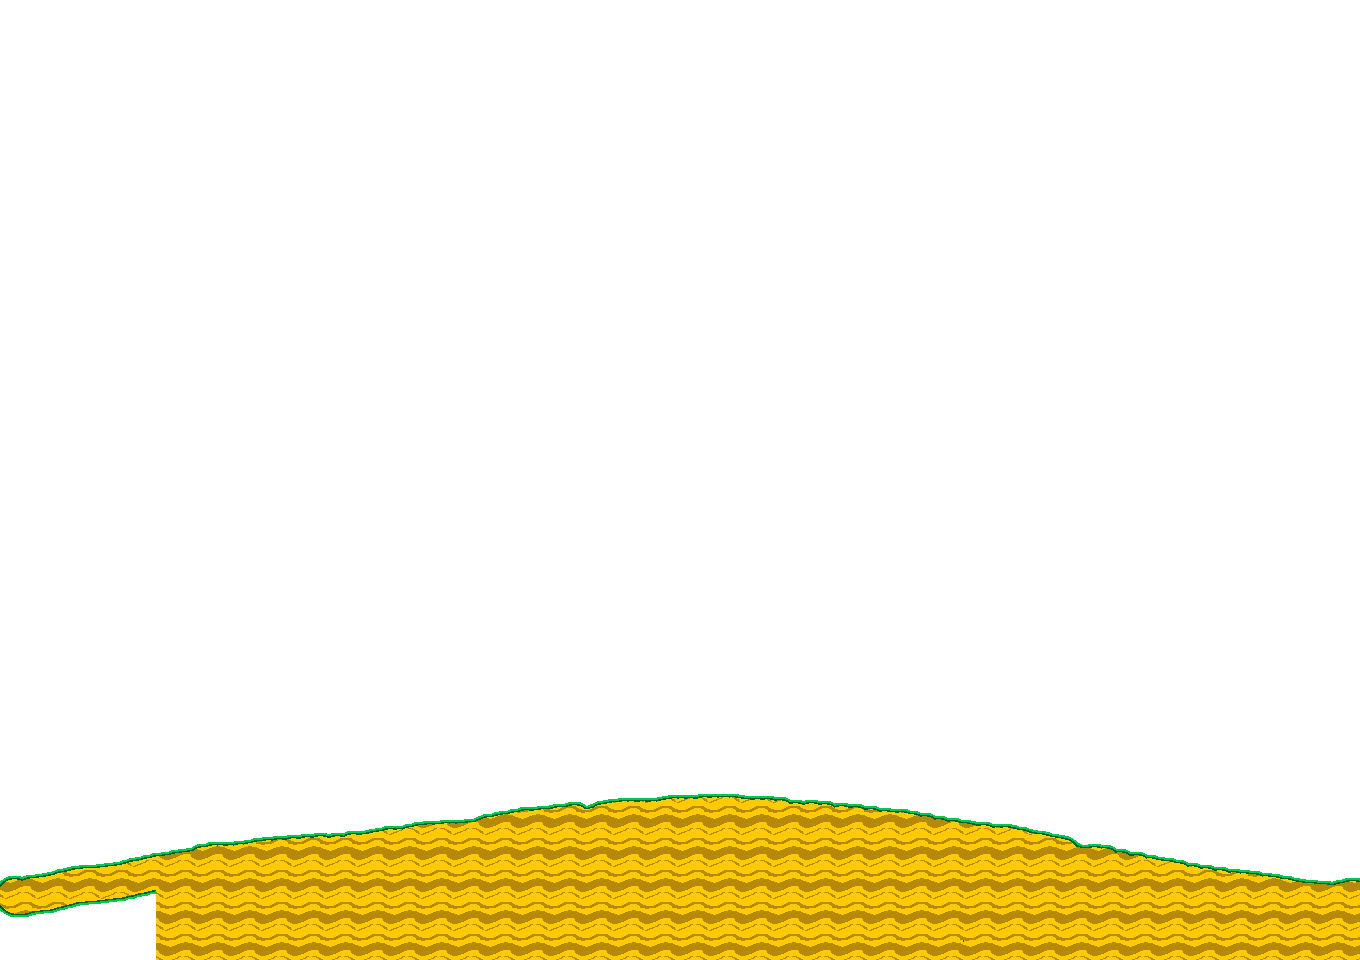
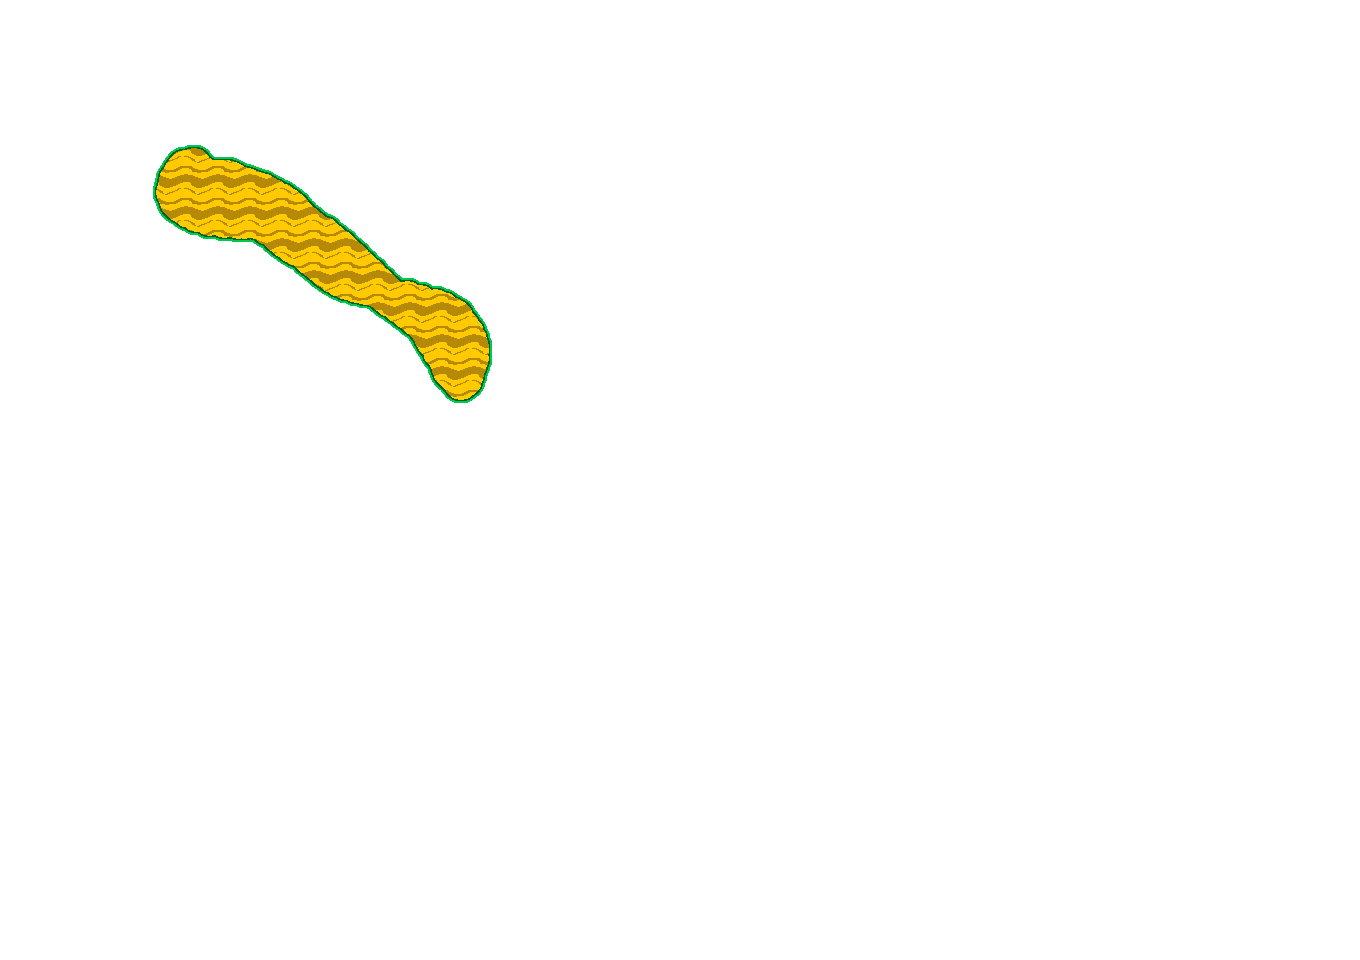
working on pwt level editor

Changed region(s): [[0.0, 0.8125, 1.0, 1.0], [0.0926, 0.1562, 0.3706, 0.4375]]

diff --git a/src/paintable_surface.h b/src/paintable_surface.h
@@ -8,13 +8,15 @@
 #include <graphics.h>
 #include <ufo_engine.h>
 #include <memory>
+#include <cmath>
 #include <console.h>
 #define STB_IMAGE_IMPLEMENTATION
 #define STB_IMAGE_WRITE_IMPLEMENTATION
 #include "../external/stb_image_write.h"
 #include "pingus_level.h"
+#include <level_sprite_reference.h>
+#include "pingus_world_tour_editor.h"
 
-/// @spawn;
 class PaintableSurface : public Actor{
 public:
     Colour CRUST = Colour(250,250,250);
@@ -30,21 +32,31 @@ public:
     olc::Decal* visual_surface;
     SpriteReference* visual_surface_ref = nullptr;
 
-    float brush_radius = 20.0f;
-
     PingusLevel* level = nullptr;
+    std::string path = "";
+    std::string visual_suface_name = "";
+    std::string layer_separation_surface_name = "";
 
-    PaintableSurface(Vector2f _) : Actor(Vector2f(0.0f,0.0f)){
+    PingusWorldTourEditor* editor = nullptr;
+
+    PaintableSurface(PingusWorldTourEditor* _editor, std::string _visual_surface_name, std::string _path) :
+    Actor(Vector2f(0.0f,0.0f)),
+    editor{_editor},
+    visual_suface_name{_visual_surface_name},
+    layer_separation_surface_name{_visual_surface_name+"_layer_separation"},
+    path{_path}{
         
     }
 
     void OnStart(Level* _level){
 
+        level = dynamic_cast<PingusLevel*>(_level);
+
         //Instead of creating SpriteReference, create an actual PingusWorldTour LevelSpriteReference layer. Grab reference to that olcDecal
-        AssetManager::Get().sprites["layer_separation_surface"] = std::make_unique<olc::Sprite>(_level->level_size.x, _level->level_size.y);
-        AssetManager::Get().decals["layer_separation_surface"] = std::make_unique<olc::Decal>(AssetManager::Get().GetSprite("layer_separation_surface"));
-        layer_separation_surface = AssetManager::Get().GetDecal("layer_separation_surface");
-        layer_separation_surface_ref = AddChild<SpriteReference>("layer_separation_surface",
+        level->asset_manager.sprites[layer_separation_surface_name] = std::make_unique<olc::Sprite>(_level->level_size.x, _level->level_size.y);
+        level->asset_manager.decals[layer_separation_surface_name] = std::make_unique<olc::Decal>(level->asset_manager.GetSprite(layer_separation_surface_name));
+        layer_separation_surface = level->asset_manager.GetDecal(layer_separation_surface_name);
+        layer_separation_surface_ref = AddChild<LevelSpriteReference>(layer_separation_surface_name,
             Vector2f(0.0f,0.0f),
             Vector2f(0.0f,0.0f),
             Vector2f(_level->level_size.x, _level->level_size.y),
@@ -58,10 +70,10 @@ public:
             }
         }
 
-        AssetManager::Get().sprites["visual_surface"] = std::make_unique<olc::Sprite>(_level->level_size.x, _level->level_size.y);
-        AssetManager::Get().decals["visual_surface"] = std::make_unique<olc::Decal>(AssetManager::Get().GetSprite("visual_surface"));
-        visual_surface = AssetManager::Get().GetDecal("visual_surface");
-        visual_surface_ref = AddChild<SpriteReference>("visual_surface",
+        level->asset_manager.sprites[visual_suface_name] = std::make_unique<olc::Sprite>(_level->level_size.x, _level->level_size.y);
+        level->asset_manager.decals[visual_suface_name] = std::make_unique<olc::Decal>(level->asset_manager.GetSprite(visual_suface_name));
+        visual_surface = level->asset_manager.GetDecal(visual_suface_name);
+        visual_surface_ref = AddChild<LevelSpriteReference>(visual_suface_name,
             Vector2f(0.0f,0.0f),
             Vector2f(0.0f,0.0f),
             Vector2f(_level->level_size.x, _level->level_size.y),
@@ -74,8 +86,6 @@ public:
                 visual_surface->sprite->SetPixel(xx,yy,Colour(0,0,0,0));
             }
         }
-
-        level = dynamic_cast<PingusLevel*>(_level);
 
         visual_surface_ref->visible = false;
 
@@ -132,10 +142,6 @@ public:
         }
 
         Vector2f world_mouse_position = level->GetActiveCamera()->TransformScreenToWorld(Mouse::Get().GetPosition());
-
-        int scroll_direction = Mouse::Get().GetScrollDirection();
-        brush_radius += scroll_direction /** Engine::Get().GetDeltaTime()*/;
-        if(brush_radius < 1.0f) brush_radius = 1.0f;
 
         if(SingleKeyboard::Get().GetKey(olc::F).is_held && Mouse::Get().GetLeftButton().is_pressed){
             Vector2f marching_position = world_mouse_position;
@@ -199,17 +205,17 @@ public:
 
         if(Mouse::Get().GetLeftButton().is_held && !SingleKeyboard::Get().GetKey(olc::F).is_held){
             if(!SingleKeyboard::Get().GetKey(olc::E).is_held){
-                for(int yy = world_mouse_position.y - brush_radius; yy < world_mouse_position.y + brush_radius; yy++){
-                    for(int xx = world_mouse_position.x - brush_radius; xx < world_mouse_position.x + brush_radius; xx++){
+                for(int yy = world_mouse_position.y - editor->brush_radius; yy < world_mouse_position.y + editor->brush_radius; yy++){
+                    for(int xx = world_mouse_position.x - editor->brush_radius; xx < world_mouse_position.x + editor->brush_radius; xx++){
                         float dist = ufoMaths::Distance2(Vector2f(xx,yy),world_mouse_position);
-                        if(dist < brush_radius){
+                        if(dist < editor->brush_radius){
                             if(layer_separation_surface->sprite->GetPixel(xx,yy) != MANTLE && layer_separation_surface->sprite->GetPixel(xx,yy) != CRUST_DARK) layer_separation_surface->sprite->SetPixel(xx,yy,CRUST);
 
-                            if(dist < brush_radius - 2.0f && layer_separation_surface->sprite->GetPixel(xx,yy) != MANTLE){
+                            if(dist < editor->brush_radius - 2.0f && layer_separation_surface->sprite->GetPixel(xx,yy) != MANTLE){
                                 layer_separation_surface->sprite->SetPixel(xx,yy,CRUST_DARK);
                             }
 
-                            if(dist < brush_radius-3.8f){
+                            if(dist < editor->brush_radius-3.8f){
                                 layer_separation_surface->sprite->SetPixel(xx,yy,MANTLE);
                             }
 
@@ -220,25 +226,25 @@ public:
             }
             else{
 
-                for(int yy = world_mouse_position.y - brush_radius-5.0f; yy < world_mouse_position.y + brush_radius+5.0f; yy++){
-                    for(int xx = world_mouse_position.x - brush_radius-5.0f; xx < world_mouse_position.x + brush_radius+5.0f; xx++){
+                for(int yy = world_mouse_position.y - editor->brush_radius-5.0f; yy < world_mouse_position.y + editor->brush_radius+5.0f; yy++){
+                    for(int xx = world_mouse_position.x - editor->brush_radius-5.0f; xx < world_mouse_position.x + editor->brush_radius+5.0f; xx++){
                         float dist = ufoMaths::Distance2(Vector2f(xx,yy),world_mouse_position);
                         
                         if(layer_separation_surface->sprite->GetPixel(xx,yy) == Colour(0,0,0,0)) continue;
 
-                        if(dist < brush_radius+5.0f && layer_separation_surface->sprite->GetPixel(xx,yy) != CRUST && layer_separation_surface->sprite->GetPixel(xx,yy) != CRUST_DARK){
+                        if(dist < editor->brush_radius+5.0f && layer_separation_surface->sprite->GetPixel(xx,yy) != CRUST && layer_separation_surface->sprite->GetPixel(xx,yy) != CRUST_DARK){
                             layer_separation_surface->sprite->SetPixel(xx,yy,MANTLE);
                         }
 
-                        if(dist < brush_radius+3.0f && layer_separation_surface->sprite->GetPixel(xx,yy) != CRUST){
+                        if(dist < editor->brush_radius+3.0f && layer_separation_surface->sprite->GetPixel(xx,yy) != CRUST){
                             layer_separation_surface->sprite->SetPixel(xx,yy,CRUST_DARK);
                         }
 
-                        if(dist < brush_radius+2.0f){
+                        if(dist < editor->brush_radius+2.0f){
                             layer_separation_surface->sprite->SetPixel(xx,yy,CRUST);
                         }
 
-                        if(dist < brush_radius){
+                        if(dist < editor->brush_radius){
                             layer_separation_surface->sprite->SetPixel(xx,yy,Colour(0,0,0,0));
                         }
 
@@ -249,8 +255,8 @@ public:
             
             }
 
-            for(int yy = world_mouse_position.y - brush_radius*2; yy < world_mouse_position.y + brush_radius*2; yy++){
-                for(int xx = world_mouse_position.x - brush_radius*2; xx < world_mouse_position.x + brush_radius*2; xx++){
+            for(int yy = world_mouse_position.y - editor->brush_radius*2; yy < world_mouse_position.y + editor->brush_radius*2; yy++){
+                for(int xx = world_mouse_position.x - editor->brush_radius*2; xx < world_mouse_position.x + editor->brush_radius*2; xx++){
                     float dist = ufoMaths::Distance2(Vector2f(xx,yy),world_mouse_position);
                     
                     if(layer_separation_surface->sprite->GetPixel(xx,yy) == CRUST){
@@ -273,19 +279,6 @@ public:
 
         layer_separation_surface->Update();
         visual_surface->Update();
-    }
-
-    void OnWidgetDraw(){
-
-        //Move this to PingusWorldTour editor
-        Vector2f mouse_position = Mouse::Get().GetPosition();
-
-        float one_degree = 2.0f*ufoMaths::PI/360.0f;
-
-        for(int a = 0; a < 360; a++){
-            Graphics::Get().DrawLine(mouse_position + Vector2f(std::cos(a*one_degree),std::sin(a*one_degree))*brush_radius*level->GetActiveCamera()->scale, mouse_position + Vector2f(std::cos((a+1)*one_degree),std::sin((a+1)*one_degree))*brush_radius*level->GetActiveCamera()->scale,Graphics::WHITE);
-        }
-
     }
 
 };

diff --git a/src/pingus_world_tour_editor.cpp b/src/pingus_world_tour_editor.cpp
@@ -1,0 +1,52 @@
+#include <widget.h>
+#include <mouse.h>
+#include <graphics.h>
+#include <ufo_maths.h>
+#include <button.h>
+#include <level.h>
+#include <wrap_menu.h>
+#include "pingus_level.h"
+#include "pingus_world_tour_editor.h"
+#include "paintable_surface.h"
+
+PingusWorldTourEditor::PingusWorldTourEditor(Vector2f _) : Widget(Vector2f(0.0f,0.0f),Engine::Get().pixel_game_engine.GetWindowSizeInPixles()){}
+
+void PingusWorldTourEditor::OnLevelEnter(Level* _level){
+    level = dynamic_cast<PingusLevel*>(_level);
+
+    b_save = AddChild<Button>(Vector2f(0.0f,0.0f),Vector2f(32.0f,0.0f),"Save");
+    b_save->adjust_height_after_text_rows = true;
+    b_load = AddChild<Button>(Vector2f(32.0f,0.0f),Vector2f(32.0f,0.0f),"Load");
+    b_load->adjust_height_after_text_rows = true;
+    b_import_layer = AddChild<Button>(Vector2f(32.0f*2,0.0f),Vector2f(56.0f,0.0f),"Import Layer");
+    b_import_layer->adjust_height_after_text_rows = true;
+    m_layers = AddChild<WrapMenu>(Vector2f(GetRectangle().size.x-200.0f,0.0f),Vector2f(200.0f,200.0f));
+    AddLayer("solid", "solid.png");
+    AddLayer("mg", "mg.png");
+    
+    level->is_menu = true;
+}
+
+void PingusWorldTourEditor::AddLayer(std::string _name, std::string _path){
+    level->NewActor<PaintableSurface>(this,_name,_path);
+    m_layers->AddChild<Button>(Vector2f(0.0f,0.0f),Vector2f(200.0f,32.0f),_name);
+}
+
+void PingusWorldTourEditor::OnUpdate(){
+    int scroll_direction = Mouse::Get().GetScrollDirection();
+    brush_radius += scroll_direction /** Engine::Get().GetDeltaTime()*/;
+    if(brush_radius < 1.0f) brush_radius = 1.0f;
+}
+
+void PingusWorldTourEditor::OnWidgetDraw(){
+
+    //Move this to PingusWorldTour editor
+    Vector2f mouse_position = Mouse::Get().GetPosition();
+
+    float one_degree = 2.0f*ufoMaths::PI/360.0f;
+
+    for(int a = 0; a < 360; a++){
+        Graphics::Get().DrawLine(mouse_position + Vector2f(std::cos(a*one_degree),std::sin(a*one_degree))*brush_radius*level->GetActiveCamera()->scale, mouse_position + Vector2f(std::cos((a+1)*one_degree),std::sin((a+1)*one_degree))*brush_radius*level->GetActiveCamera()->scale,Graphics::WHITE);
+    }
+
+}

diff --git a/src/pingus_world_tour_editor.h b/src/pingus_world_tour_editor.h
@@ -1,6 +1,14 @@
+#pragma once
 #include <widget.h>
+#include <mouse.h>
+#include <graphics.h>
+#include <ufo_maths.h>
+#include "pingus_level.h"
 
 class Button;
+class WrapMenu;
+class Level;
+class PingusLevel;
 class WrapMenu;
 
 /// @spawn;
@@ -9,5 +17,20 @@ public:
     Button* b_save = nullptr;
     Button* b_load = nullptr;
     Button* b_import_layer = nullptr;
+    WrapMenu* m_layers = nullptr;
+
+    PingusLevel* level = nullptr;
+
+    float brush_radius = 20.0f;
+
+    PingusWorldTourEditor(Vector2f _);
+
+    void OnLevelEnter(Level* _level);
+
+    void AddLayer(std::string _name, std::string _path);
+
+    void OnUpdate();
+
+    void OnWidgetDraw();
 
 };

diff --git a/project.py b/project.py
@@ -41,7 +41,7 @@ project.import_actor("src/world_map_cursor.h","src/world_map_cursor.cpp")
 project.import_actor("src/world_map.h","src/world_map.cpp")
 project.import_actor("src/pingus_splash_screen.h")
 project.import_actor("src/story_mode_intro.h")
-project.import_actor("src/paintable_surface.h")
+project.import_actor("src/pingus_world_tour_editor.h","src/pingus_world_tour_editor.cpp")
 
 #Source-files that aren't Actors.
 project.source_files.append("game.cpp")
